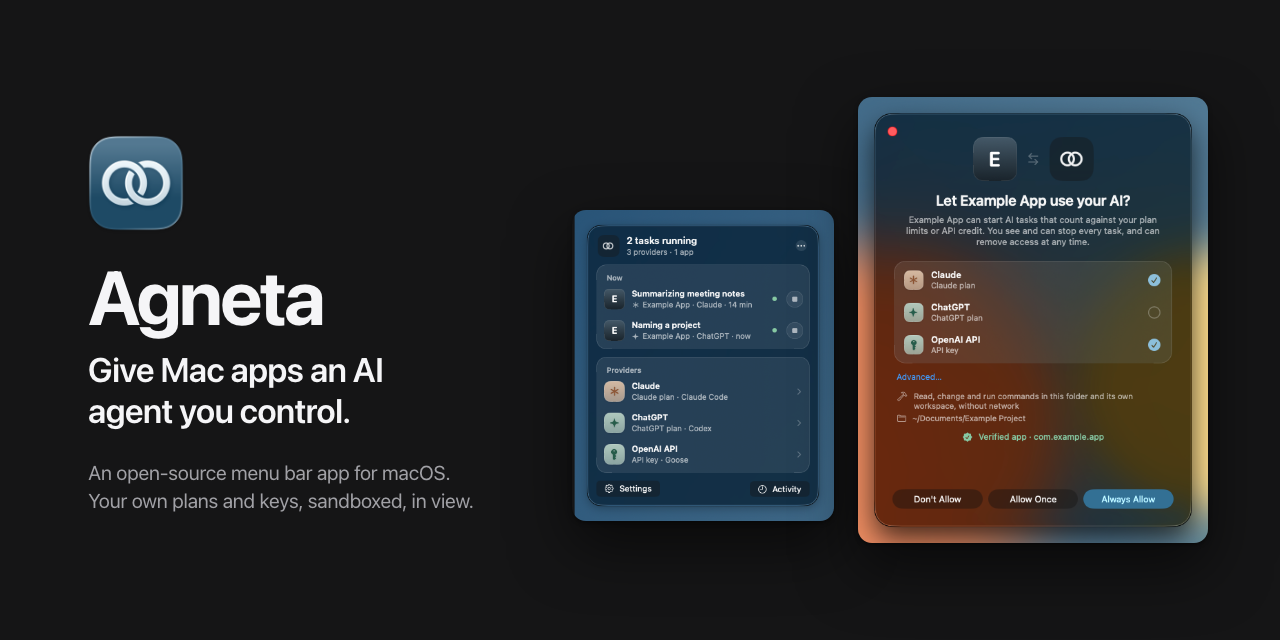
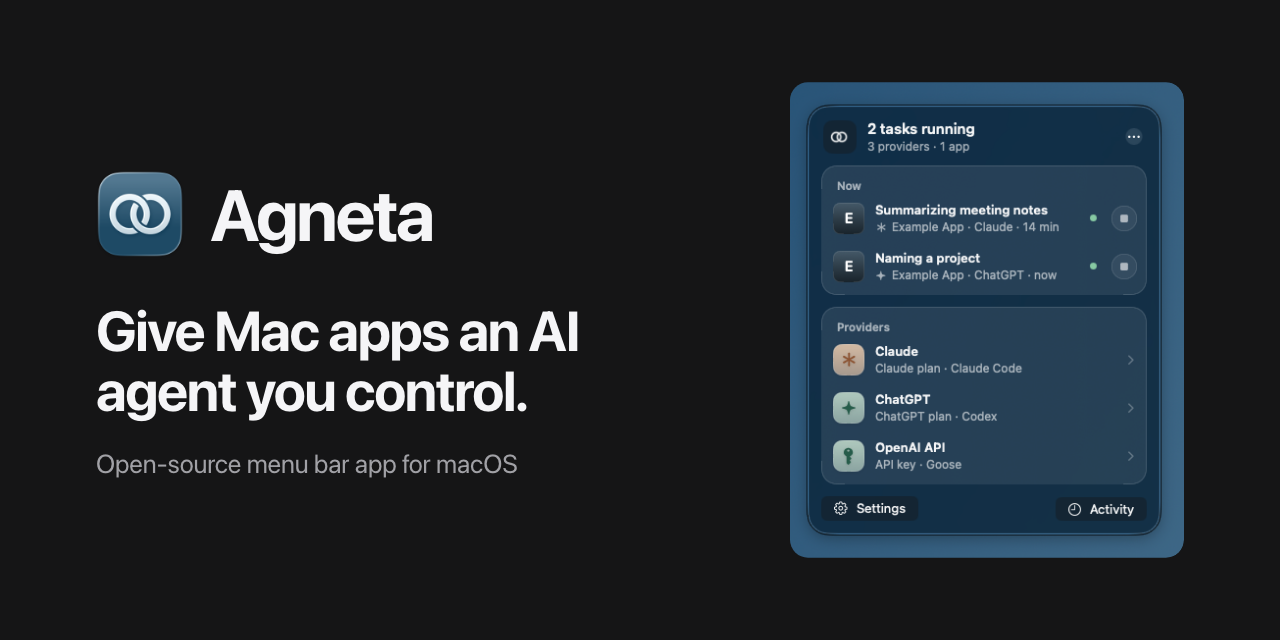
Make room for a demo video; tap badge, engine issue form, a simpler social card
The site shows docs/images/demo.mp4 above the screenshots once it exists, and the README marks where the same video
goes. The install section says how Sparkle updates and how to check a download, as the release page does. Issue
forms are now a bug, an engine or provider problem, and a feature request, with questions sent to Discussions. The
social preview is the panel and the pitch alone, so it reads as a small card.

diff --git a/site/social/social-preview.html b/site/social/social-preview.html
@@ -8,30 +8,24 @@
   body {
     background: #151516; color: #f5f5f7;
     font-family: -apple-system, BlinkMacSystemFont, "SF Pro Display", "Helvetica Neue", sans-serif;
-    -webkit-font-smoothing: antialiased; display: flex; align-items: center;
+    -webkit-font-smoothing: antialiased; display: flex; align-items: center; justify-content: space-between;
+    padding: 0 96px 0 96px; box-sizing: border-box;
   }
-  .text { width: 470px; padding-left: 88px; flex: none; }
-  .text img { display: block; width: 116px; height: 116px; margin: 0 0 18px -10px; }
-  h1 { font-size: 76px; font-weight: 700; letter-spacing: -0.035em; margin: 0 0 14px; line-height: 1; }
-  p { margin: 0; }
-  .tagline { text-wrap: balance; font-size: 34px; font-weight: 600; letter-spacing: -0.022em; line-height: 1.2; }
-  .meta { margin-top: 28px; font-size: 20px; color: #a1a1a6; letter-spacing: -0.01em; line-height: 1.4; }
-  .shots { flex: 1; display: flex; align-items: flex-end; gap: 24px; padding-right: 72px; justify-content: flex-end; }
-  .shots img { display: block; border-radius: 14px; box-shadow: 0 2px 4px rgba(0,0,0,.4), 0 24px 60px rgba(0,0,0,.55); }
-  .panel { width: 262px; margin-bottom: 22px; }
-  .approval { width: 350px; }
+  .text { width: 600px; }
+  .brand { display: flex; align-items: center; gap: 18px; margin-bottom: 34px; }
+  .brand img { width: 104px; height: 104px; margin-left: -8px; }
+  h1 { font-size: 72px; font-weight: 700; letter-spacing: -0.035em; margin: 0; line-height: 1; }
+  .tagline { margin: 0; font-size: 56px; font-weight: 700; letter-spacing: -0.03em; line-height: 1.08; text-wrap: balance; }
+  .meta { margin: 28px 0 0; font-size: 26px; color: #a1a1a6; letter-spacing: -0.012em; }
+  .panel { width: 400px; display: block; border-radius: 18px; clip-path: inset(0 0 0 6px round 18px); box-shadow: 0 2px 4px rgba(0,0,0,.4), 0 24px 60px rgba(0,0,0,.55); }
 </style>
 </head>
 <body>
   <div class="text">
-    <img src="../../packaging/AppIcon.png" alt="">
-    <h1>Agneta</h1>
+    <div class="brand"><img src="../../packaging/AppIcon.png" alt=""><h1>Agneta</h1></div>
     <p class="tagline">Give Mac apps an AI agent you control.</p>
-    <p class="meta">An open-source menu bar app for macOS.<br>Your own plans and keys, sandboxed, in view.</p>
+    <p class="meta">Open-source menu bar app for macOS</p>
   </div>
-  <div class="shots">
-    <img class="panel" src="../../docs/images/panel-dark.png" alt="">
-    <img class="approval" src="../../docs/images/approval-dark.png" alt="">
-  </div>
+  <img class="panel" src="../../docs/images/panel-dark.png" alt="">
 </body>
 </html>

diff --git a/site/src/index.html b/site/src/index.html
@@ -11,6 +11,7 @@
   </section>
 
   <section class="shots-section wrap" aria-label="Screenshots">
+    {{demo}}
     <div class="shots" data-shots>
       <figure class="shot shot-panel">
         <img class="light" src="/images/panel.png" width="408" height="485" alt="Agneta’s menu bar panel: two running tasks from Example App, each with a stop button, and three connected providers with the engine each runs on">
@@ -113,7 +114,10 @@
         <div>
           <h3>Or with Homebrew</h3>
           <pre data-copy><code>brew install olofd/tap/agneta</code></pre>
-          <p>Agneta asks before it first checks for updates. After that it keeps itself current, installing an update only when no task is running. Homebrew leaves updating to it.</p>
+          <h3>Updates</h3>
+          <p>Agneta updates itself with Sparkle. It asks before it first checks GitHub, then checks about once a day and installs an update only when no task is running; Settings → General turns checks or installs off. Homebrew leaves updating to it.</p>
+          <h3>Check a download</h3>
+          <p>Each release lists every file’s SHA-256 in <code>SHA256SUMS.txt</code>, and GitHub records how each was built: <code>gh attestation verify</code> checks a DMG against this repository.</p>
           <h3>Or build it</h3>
           <p>With Xcode 26 or later, from the source: <a href="https://github.com/olofd/agneta#build-and-run" rel="noopener">Build and run</a>.</p>
         </div>

diff --git a/site/src/style.css b/site/src/style.css
@@ -153,6 +153,9 @@ h1, h2, h3 { text-wrap: balance; }
 .meta li + li::before { content: "·"; margin: 0 9px; }
 
 .shots-section { padding-top: 64px !important; }
+.demo { margin: 0 auto 64px; max-width: 880px; text-align: center; }
+.demo video { display: block; width: 100%; height: auto; border-radius: 14px; box-shadow: var(--shot-shadow); background: var(--bg-raised); }
+.demo figcaption { margin-top: 14px; font-size: 14px; color: var(--text-2); }
 .shots { display: flex; justify-content: center; align-items: flex-end; gap: clamp(20px, 4vw, 48px); }
 .shot { margin: 0; flex: 0 1 auto; text-align: center; }
 .shot-panel { width: 340px; }

diff --git a/site/build.py b/site/build.py
@@ -46,6 +46,7 @@ GROUPS = [
     ]),
 ]
 CHANGELOG = ("CHANGELOG.md", None, "changelog", "Changelog")
+DEMO, DEMO_POSTER = "docs/images/demo.mp4", "docs/images/demo-poster.png"
 PAGES = [page for _, pages in GROUPS for page in pages] + [CHANGELOG]
 WHOLE_FILES = {source: path for source, section, path, _ in PAGES if section is None}
 
@@ -550,7 +551,17 @@ def landing(site):
     else:
         release_line = f'<a href="{REPO}/releases/latest">Latest release</a>'
 
+    # The demo video, once there is one: above the screenshots, which stay.
+    demo = ""
+    if os.path.exists(os.path.join(ROOT, DEMO)):
+        poster = ' poster="/images/demo-poster.png"' if os.path.exists(os.path.join(ROOT, DEMO_POSTER)) else ""
+        demo = (f'<figure class="demo"><video src="/images/demo.mp4"{poster} controls muted playsinline '
+                'preload="metadata" aria-describedby="demo-caption"></video>'
+                '<figcaption id="demo-caption">An app pairs with Agneta, its task runs in the menu bar panel, '
+                'and Stop ends it.</figcaption></figure>')
+
     body = fill(read("site/src/index.html"), {
+        "demo": demo,
         "release_line": release_line,
         "downloads": "".join(downloads),
         "how_steps": part("How it works", "list"),
@@ -596,6 +607,9 @@ def build(out, release, commit):
     os.makedirs(os.path.join(out, "images"))
     for name in ("panel.png", "panel-dark.png", "approval.png", "approval-dark.png", "social-preview.png"):
         shutil.copy(os.path.join(ROOT, "docs", "images", name), os.path.join(out, "images", name))
+    for optional in (DEMO, DEMO_POSTER):
+        if os.path.exists(os.path.join(ROOT, optional)):
+            shutil.copy(os.path.join(ROOT, optional), os.path.join(out, "images", os.path.basename(optional)))
     shutil.copy(os.path.join(ROOT, "examples", "project-chat", "preview.png"),
                 os.path.join(out, "images", "project-chat.png"))
     urls = [""] + ["docs"] + [p for _, _, p, _ in PAGES]

diff --git a/README.md b/README.md
@@ -10,6 +10,7 @@
   <a href="https://github.com/olofd/agneta/releases/latest"><img src="https://img.shields.io/github/v/release/olofd/agneta?color=1f5a7a" alt="Latest release"></a>
   <a href="https://github.com/olofd/agneta/actions/workflows/ci.yml"><img src="https://github.com/olofd/agneta/actions/workflows/ci.yml/badge.svg?branch=main" alt="CI"></a>
   <a href="docs/CONTAINMENT.md#supported-macos-versions"><img src="https://img.shields.io/badge/macOS-14%2B%20%C2%B7%20Apple%20silicon%20and%20Intel-1f5a7a" alt="macOS 14 or later, Apple silicon and Intel"></a>
+  <a href="https://github.com/olofd/homebrew-tap"><img src="https://img.shields.io/badge/Homebrew-olofd%2Ftap%2Fagneta-1f5a7a" alt="Homebrew: olofd/tap/agneta"></a>
   <a href="LICENSE"><img src="https://img.shields.io/github/license/olofd/agneta?color=1f5a7a" alt="Apache License 2.0"></a>
 </p>
 
@@ -23,6 +24,10 @@
 Agneta is an open-source macOS menu bar app. You connect the AI you already pay for once: a ChatGPT or Claude plan, or an OpenAI or Anthropic API key. Then you decide which apps may use them. When an allowed app needs an AI agent to do some work, it asks Agneta. Agneta runs the agent on your Mac, in a sandbox, on your account, and shows you every task with a stop button.
 
 For app developers, this means agent features without running an agent loop, building sign-in for every provider, or putting a model bill on your own credit card. Your app speaks the [Agent Client Protocol](https://agentclientprotocol.com) (ACP) to Agneta over a local WebSocket, and Agneta does the rest.
+
+<!-- The demo video goes here, above the screenshots: 20 seconds of an app pairing, a task running in the panel, and
+     Stop. Drag the .mp4 into this file in GitHub's web editor, which uploads it and puts its URL on a line of its own;
+     GitHub shows that line as a player. On the website, put the same file at docs/images/demo.mp4 (site/README.md). -->
 
 <p align="center">
   <picture>

diff --git a/CONTRIBUTING.md b/CONTRIBUTING.md
@@ -20,7 +20,7 @@ swift build && swift test    # everything, with fake models; no accounts needed
 
 ## Reporting a bug
 
-Open an issue with the bug template: the Agneta version (Settings → About), your macOS and Mac, and for a task a redacted trace (`agneta-diag export <task> --out trace.jsonl --redact-content`). Security problems go privately, as [SECURITY.md](SECURITY.md) says, and conduct is covered by [CODE_OF_CONDUCT.md](CODE_OF_CONDUCT.md).
+Open an issue with the bug template, or the engine or provider template when a task fails on one of them: the Agneta version (Settings → About), your macOS and Mac, and for a task a redacted trace (`agneta-diag export <task> --out trace.jsonl --redact-content`). Security problems go privately, as [SECURITY.md](SECURITY.md) says, and conduct is covered by [CODE_OF_CONDUCT.md](CODE_OF_CONDUCT.md).
 
 ## What a change should come with
 

diff --git a/site/README.md b/site/README.md
@@ -40,6 +40,10 @@ Then open http://127.0.0.1:8642. Pages are served at `/<path>/`, as on GitHub Pa
 
 It runs from `main` only, which the `github-pages` environment requires.
 
+## The demo video
+
+Put a short recording at `docs/images/demo.mp4` (H.264, muted, about 20 seconds: an app pairs, its task runs in the panel, Stop ends it), and optionally its first frame at `docs/images/demo-poster.png`. The build then shows it above the screenshots, with controls and without autoplay. Until it exists, the screenshots stand alone. The README has a marked spot for the same video, uploaded through GitHub's editor.
+
 ## The social preview
 
 `docs/images/social-preview.png` (1280 × 640) is the image GitHub shows when the repository is shared, and the site's `og:image`. It's `social/social-preview.html` rendered with the Google Chrome on your Mac:
